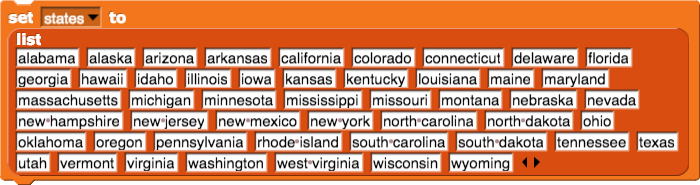
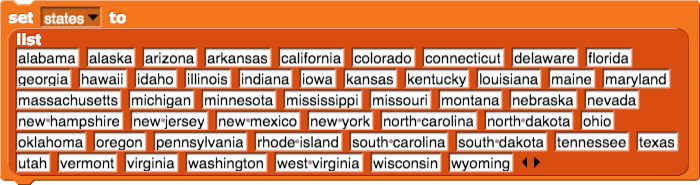
including Indiana in states list (ahem. as a Hoosier, I'm offended)

Changed region(s): [[0.03, 0.3514, 0.96, 0.4865], [0.03, 0.7027, 0.87, 0.7297]]

diff --git a/cur/programming/3-lists/2-list-operations/5-choosing-some-items-from-a-list.html b/cur/programming/3-lists/2-list-operations/5-choosing-some-items-from-a-list.html
@@ -5,7 +5,7 @@
       
       <script src="/bjc-r/llab/loader.js"></script>
       
-      <title> Choosing some items from a list</title>
+      <title>Keep</title>
       
    </head>   
       
